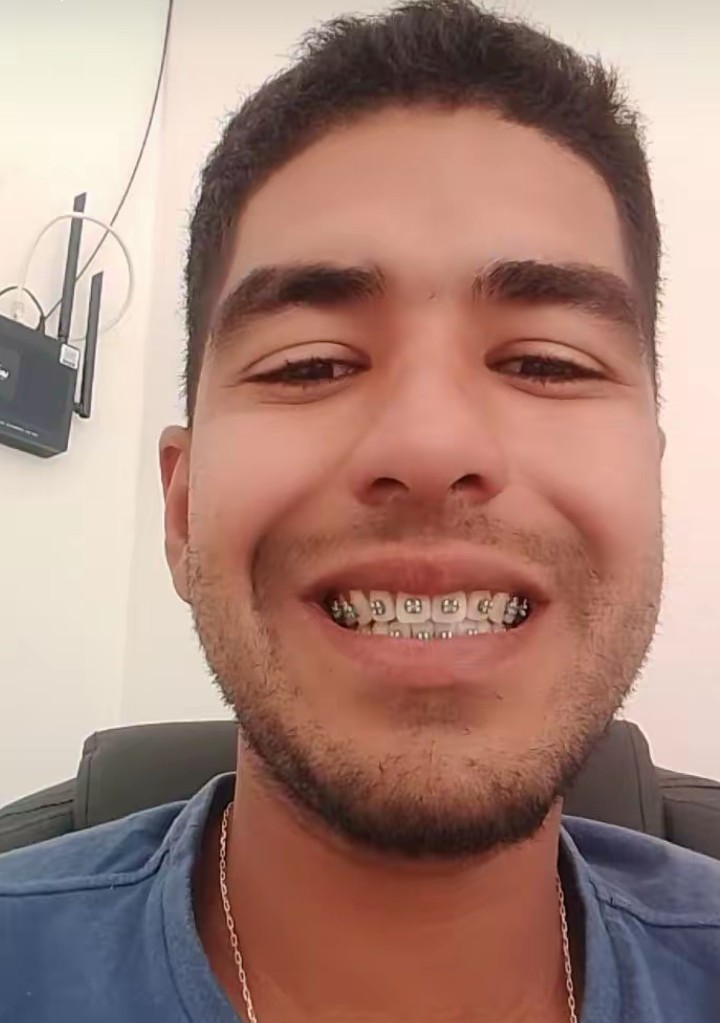
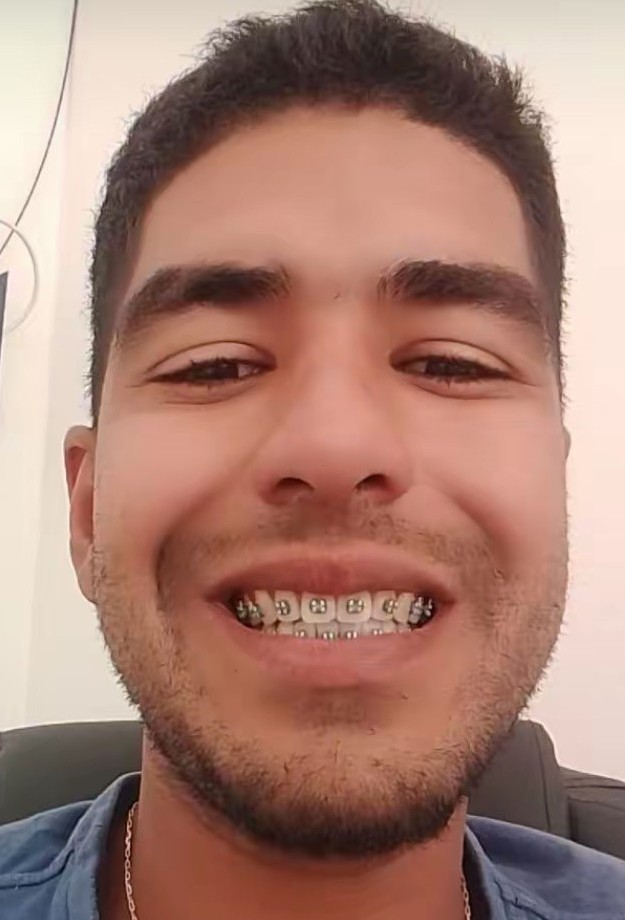
ultima alteraçao

diff --git a/index.html b/index.html
@@ -141,7 +141,7 @@ header{flex-wrap:wrap;row-gap:10px}
 .cover-img{position:absolute;inset:0;width:100%;height:100%;object-fit:cover;object-position:center top;z-index:0;display:block}
 .cover span,.cover em{position:relative;z-index:1}
 .cover:has(.cover-img)::before,.cover:has(.cover-img)::after{display:none}
-.hero-photo{position:relative;width:96px;height:96px;border-radius:50%;border:2px dashed rgba(0,212,255,.55);box-shadow:0 0 0 5px rgba(0,212,255,.10);margin-bottom:18px;display:flex;align-items:center;justify-content:center;overflow:hidden;color:var(--mut);font-size:.66rem;text-align:center;line-height:1.2;padding:8px}
+.hero-photo{position:relative;width:118px;height:118px;border-radius:50%;border:2px dashed rgba(0,212,255,.55);box-shadow:0 0 0 5px rgba(0,212,255,.10);margin-bottom:18px;display:flex;align-items:center;justify-content:center;overflow:hidden;color:var(--mut);font-size:.7rem;text-align:center;line-height:1.2;padding:8px;cursor:zoom-in;transition:transform .3s ease,box-shadow .3s ease}
 .hero-photo img{position:absolute;inset:0;width:100%;height:100%;object-fit:cover;object-position:center top;border-radius:50%}
 .hero-photo span{position:relative}
 
@@ -153,6 +153,12 @@ header{flex-wrap:wrap;row-gap:10px}
 .hero-photo{margin-left:auto;margin-right:auto}
 .slogan{text-align:center}
 .stack{text-align:center}
+.hero-photo:hover,.hero-photo:focus-visible{transform:scale(1.08);box-shadow:0 0 0 6px rgba(0,212,255,.18),0 10px 30px rgba(0,212,255,.25)}
+@media(min-width:900px){.hero-photo{width:136px;height:136px}}
+.photo-zoom{position:fixed;inset:0;z-index:60;background:rgba(0,0,0,.88);display:flex;align-items:center;justify-content:center;padding:20px;cursor:zoom-out}
+.photo-zoom[hidden]{display:none}
+.photo-zoom img{max-width:100%;max-height:90vh;width:auto;height:auto;border-radius:16px;box-shadow:0 20px 60px rgba(0,0,0,.6)}
+.photo-zoom-x{position:absolute;top:14px;right:16px;width:40px;height:40px;border-radius:50%;background:rgba(0,0,0,.55);border:1px solid var(--line);color:var(--tx);font-size:1.2rem;cursor:pointer}
 </style>
 </head>
 <body>
@@ -380,6 +386,35 @@ document.getElementById('fm').addEventListener('submit',e=>{
   e.preventDefault();const f=new FormData(e.target);
   window.open(wa(`Olá, vim pelo site da TechFlow.\nNome: ${f.get('n')}\nEmpresa: ${f.get('e')}\nContato: ${f.get('c')}\nServiço: ${f.get('s')}\nProjeto: ${f.get('d')}`),'_blank');
 });
+
+/* ===== FOTO DO HERO: clique amplia a foto inteira ===== */
+(function(){
+  const heroPhoto = document.querySelector('.hero-photo');
+  const zoom = document.getElementById('photoZoom');
+  const zoomImg = document.getElementById('photoZoomImg');
+  const zoomClose = document.getElementById('photoZoomClose');
+  if (!heroPhoto || !zoom) return;
+  const src = heroPhoto.querySelector('img');
+  const openZoom = () => {
+    if (!src || !src.complete || src.naturalWidth === 0) return;
+    zoomImg.src = src.src;
+    zoom.hidden = false;
+    document.body.style.overflow = 'hidden';
+  };
+  const closeZoom = () => { zoom.hidden = true; document.body.style.overflow = ''; };
+  heroPhoto.setAttribute('tabindex', '0');
+  heroPhoto.setAttribute('role', 'button');
+  heroPhoto.setAttribute('aria-label', 'Ampliar foto');
+  heroPhoto.addEventListener('click', openZoom);
+  heroPhoto.addEventListener('keydown', e => { if (e.key === 'Enter' || e.key === ' ') { e.preventDefault(); openZoom(); } });
+  zoom.addEventListener('click', e => { if (e.target === zoom || e.target === zoomClose) closeZoom(); });
+  zoomClose.addEventListener('click', closeZoom);
+  document.addEventListener('keydown', e => { if (e.key === 'Escape' && !zoom.hidden) closeZoom(); });
+})();
 </script>
+<div class="photo-zoom" id="photoZoom" hidden role="dialog" aria-modal="true" aria-label="Foto ampliada">
+  <img id="photoZoomImg" alt="João Paulo, fundador da TechFlow">
+  <button class="photo-zoom-x" id="photoZoomClose" aria-label="Fechar">✕</button>
+</div>
 </body>
 </html>
